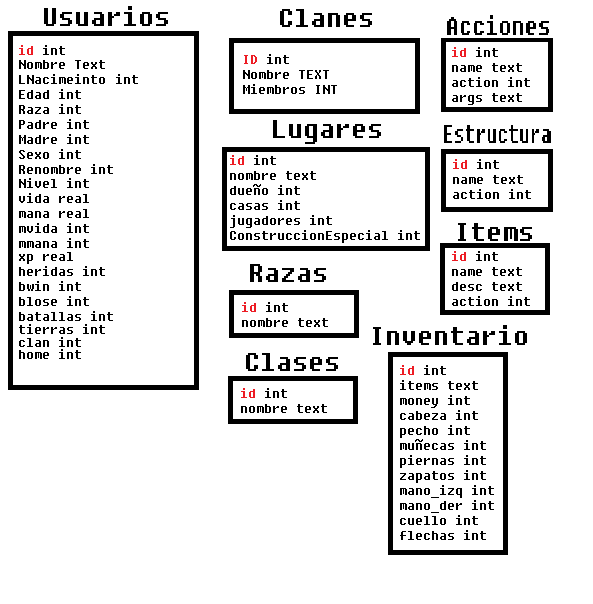
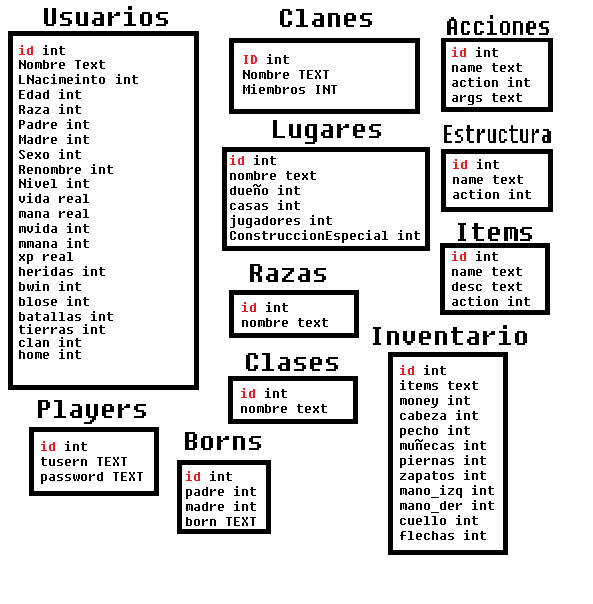
Actualizadas y añadidas 2 tablas nuevas, agregado la funcion para generar la llave de invitacion y para tomar datos de los usuarios por ID

Changed region(s): [[0.0304, 0.6556, 0.4553, 0.894]]

diff --git a/main.py b/main.py
@@ -3,6 +3,8 @@ from os import getenv
 from dotenv import load_dotenv
 from libs import dialogHandler as dh
 
+from Data import items
+
 from libs import dbManager as dbm
 from libs import  pyresponder as pyr
 
@@ -12,16 +14,29 @@ PORT = int(getenv("PORT"))
 
 
 def start_db():
-    db = dbm.createDatabase()
+    db = dbm.createDatabase()   # Crear la base de datos
+    ## <Tablas>
+    #   Usuarios
     dbm.createTable(db, "id INTEGER NOT NULL PRIMARY KEY AUTOINCREMENT", "title TEXT NOT NULL", "name TEXT NOT NULL", "lnacimiento INTEGER NOT NULL", "edad INTEGER NOT NULL", "raza INTEGER NOT NULL", "padre INTEGER NOT NULL", "madre INTEGER NOT NULL", "sexo INTEGER NOT NULL", "renombre INTEGER NOT NULL", "nivel INTEGER NOT NULL", "vida REAL NOT NULL", "mana REAL NOT NULL", "mvida INTEGER NOT NULL", "mmana INTEGER NOT NULL", "xp REAL NOT NULL", "heridas INTEGER NOT NULL", "bwin INTEGER NOT NULL", "blose INTEGER NOT NULL", "batallas INTEGER NOT NULL", "tierras INTEGER NOT NULL", "clan INTEGER NOT NULL", "home INTEGER NOT NULL", t_name="Usuarios")
+    #   Clanes
     dbm.createTable(db, "id INTEGER NOT NULL PRIMARY KEY AUTOINCREMENT", "name TEXT NOT NULL", "miembros INTEGER NOT NULL", t_name="Clanes")
+    #   Clases
     dbm.createTable(db, "id INTEGER NOT NULL PRIMARY KEY AUTOINCREMENT", "name TEXT NOT NULL", t_name="Clases")
+    #   Razas
     dbm.createTable(db, "id INTEGER NOT NULL PRIMARY KEY AUTOINCREMENT", "name TEXT NOT NULL", t_name="Razas")
+    #   Estructuras
     dbm.createTable(db, "id INTEGER NOT NULL PRIMARY KEY AUTOINCREMENT", "name TEXT NOT NULL", "action INTEGER NOT NULL", t_name="Estructuras")
+    #   Acciones
     dbm.createTable(db, "id INTEGER NOT NULL PRIMARY KEY AUTOINCREMENT", "name TEXT NOT NULL", "action INTEGER NOT NULL", "args TEXT NOT NULL", t_name="Acciones")
+    #   Items
     dbm.createTable(db, "id INTEGER NOT NULL PRIMARY KEY AUTOINCREMENT", "name TEXT NOT NULL", "desc TEXT NOT NULL", "action INTEGER NOT NULL", t_name="Items")
+    #   Lugares
     dbm.createTable(db, "id INTEGER NOT NULL PRIMARY KEY AUTOINCREMENT", "name TEXT NOT NULL", "dueño INTEGER NOT NULL",  "casas INTEGER NOT NULL", "jugadores INTEGER NOT NULL", "special INTEGER NOT NULL", t_name="Lugares")
-    dbm.createTable(db, "id INTEGER NOT NULL PRIMARY KEY AUTOINCREMENT", "items TEXT NOT NULL", "money INTEGER NOT NULL", "cabeza INTEGER NOT NULL", "pecho INTEGER NOT NULL", "muñecas INTEGER NOT NULL", "piernas INTEGER NOT NULL", "zapatos INTEGER NOT NULL", "mano_izq INTEGER NOT NULL", "mano_der INTEGER NOT NULL", "cuello INTEGER NOT NULL", "flechas INTEGER NOT NULL", t_name="Inventory")
+    #   Inventory
+    dbm.createTable(db, "id INTEGER NOT NULL PRIMARY KEY", "items TEXT NOT NULL", "money INTEGER NOT NULL", "cabeza INTEGER NOT NULL", "pecho INTEGER NOT NULL", "muñecas INTEGER NOT NULL", "piernas INTEGER NOT NULL", "zapatos INTEGER NOT NULL", "mano_izq INTEGER NOT NULL", "mano_der INTEGER NOT NULL", "cuello INTEGER NOT NULL", "flechas INTEGER NOT NULL", t_name="Inventory")
+    #   Players
+    dbm.createTable(db, "id INTEGER NOT NULL PRIMARY KEY", "tusern TEXT NOT NULL", "password TEXT NOT NULL", t_name="Players")
+    ## </Tablas>
     return db
 
 
@@ -40,12 +55,17 @@ def c_start(data:pyr.info):
     pyr.addResponse(resp)
 
 
+def createItems(db):
+    Excaliburn = items.createItem(db, name="Excaliburn", desc="Espada sin filo", action=0)
+
+
 def start(*argv):
     db = start_db()
     # put more code here
     pyr.addTrigguer("start", c_start)
+    createItems(db) # Crea los items en la base de datos
     strartAt = ("0.0.0.0", PORT)
-    pyr.server_start(strartAt)
+    # pyr.server_start(strartAt)
     db.close()
 
 

diff --git a/libs/dbManager.py b/libs/dbManager.py
@@ -62,6 +62,7 @@ def insertData(db, table, rows, *data):
     cur = db.cursor()
     tmp = ""
     tmp2 = ""
+    rows = rows.split(", ")
     if (len(rows) != len(data)):
         print(f"\x1b[1;31mError de longitud de datos para tabla {table}")
         return False
@@ -102,3 +103,13 @@ def getData(db, tabla, row="*", extra: str = None, many=0):
     elif len(content) == 0:
         return None
     return content
+
+
+def updateData(db, tabla, condition, row, value):
+    cur = db.cursor()
+    tp = "'"
+    if type(value) is int:
+        tp = ""
+    query = f"UPDATE {tabla} SET `{row}`={tp}{value}{tp} WHERE {condition}"
+    cur.execute(query)
+    return True

diff --git a/Data/borns.py b/Data/borns.py
@@ -1,0 +1,28 @@
+from libs import dbManager as dbm
+from Data import users
+import hashlib
+
+
+
+def generateBorn(db, idPadre, idMadre):
+    key = ""
+    padre = users.getUserByID(idPadre)[0]
+    madre = users.getUserByID(idMadre)[0]
+    nPadre = padre[2]
+    nMadre = madre[2]
+    dPadre = sha256(f"{nPadre}:{idPadre}")
+    dMadre = sha256(f"{nMadre}:{idMadre}")
+    key = md5(f"[{dPadre}]:[{dMadre}]")
+    return key
+
+
+def sha256(txt:str):
+    txt = txt.encode('utf-8')
+    txt = hashlib.sha256(txt).hexvalue()
+    return txt
+
+
+def md5(txt:str):
+    txt = txt.encode('utf-8')
+    txt = hashlib.md5(txt).hexvalue()
+    return txt

diff --git a/Data/items.py b/Data/items.py
@@ -4,7 +4,11 @@ TABLA = "Items"
 CAMPS = "name, desc, action"
 
 def createItem(db, name:str, desc:str, action:int):
+    if len(getItemByName(db, name)) != 0:       # Si el item ya existe, devuelve su ID
+        return getItemByName(db, name)[0][0]
+    # Sino lo crea y añade a la base de datos devolviendo su ID
     dbm.insertData(db, TABLA, CAMPS, name, desc, action)
+    return getItemByName(db, name)[0][0]
 
 
 def getItems(db):

diff --git a/Data/users.py b/Data/users.py
@@ -1,0 +1,9 @@
+from libs import dbManager as dbm
+
+
+TABLA = "Usuarios"
+CAMPS = "title, name, lnacimiento, edad, raza, padre, madre, sexo, renombre, nivel, vida, mana, mvida, mmana, xp, heridas, bwin, blose, batallas, tierras, clan, home"
+
+
+def getUserByID(db, id:int):
+    return dbm.getData(db, TABLA, extra=f"`id`={id}", many=1)
